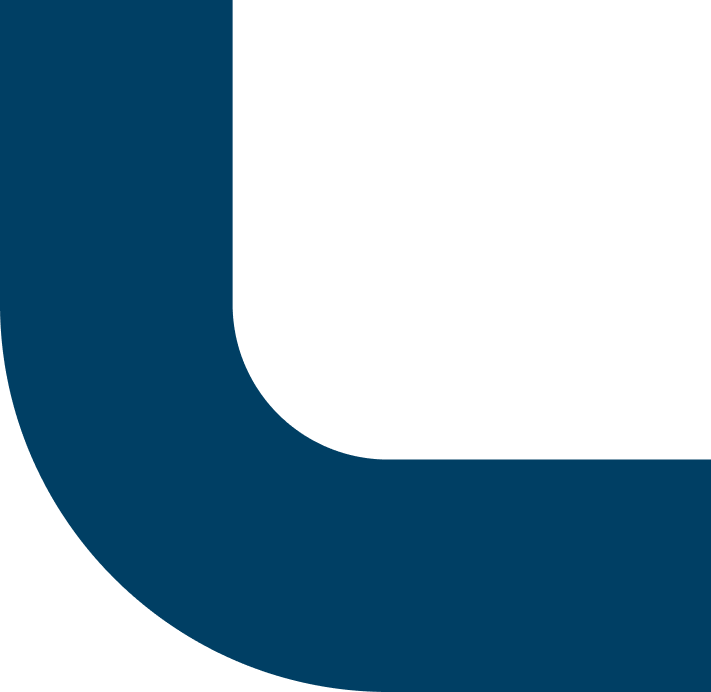
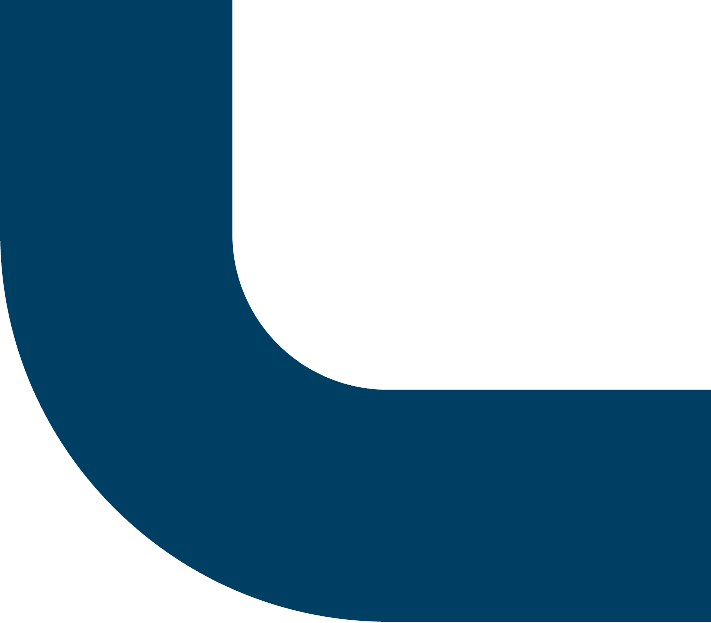
fotos da empresa mais detalhes

diff --git a/css/estilos/empresa.css b/css/estilos/empresa.css
@@ -1,9 +1,8 @@
 .empresa-section {
   display: grid;
   height: 997px;
-  grid-template-columns: 1fr 1fr;
+  grid-template-columns: 2fr 1fr;
   grid-template-rows: auto 1fr;
-  /* A segunda linha ocupa o restante do espaço disponível */
   gap: 0;
   padding-left: 80px;
   background-color: #f3f4f3;
@@ -25,39 +24,55 @@
   position: relative;
 }
 
+.imagem-container img {
+  display: block;
+  max-width: 100%;
+  height: auto;
+}
+
 .imagem-container::before {
   content: "";
-  display: block;
   position: absolute;
-  background-image: url('../../img/detalher.bg.empresa.png');
+  top: 0px;
+  /* Ajuste a posição conforme necessário */
+  left: -250px;
+  /* Ajuste a posição conforme necessário */
+  width: calc(100% + 250px);
+  /* Ajuste a largura conforme necessário */
+  height: calc(100% + 250px);
+  /* Ajuste a altura conforme necessário */
+  background-image: url('../../img/detalhe.foros.empresa.png');
+  /* Caminho para a imagem da borda */
   background-size: cover;
   background-repeat: no-repeat;
-  background-position: center bottom;
-  width: 100%;
-  height: 100%;
-  top: 0;
-  left: 0;
-  z-index: 10;
+  z-index: 2;
+
+}
+
+.imagem-container img {
+  display: block;
+  width: auto;
+  height: auto;
+  position: relative;
+  z-index: 1;
 }
 
 .container-lideranca {
   grid-column: span 2;
-  /* Span across both columns */
   display: flex;
   flex-direction: column;
   justify-content: center;
-  align-items: center;
+  align-items: start;
   gap: 20px;
   padding: 20px;
-  background-color: white;
   width: 100%;
-  /* Ensure it spans the full width of the grid */
+  z-index: 3;
 }
 
 .cards-lideranca {
   display: flex;
   flex-direction: row;
-  justify-content: center;
+  justify-content: left;
   align-items: center;
   gap: 20px;
 }
@@ -67,7 +82,7 @@
   height: 336px;
   display: flex;
   flex-direction: column;
-  background-color: #fff;
+
   border-radius: 8px;
 }
 
